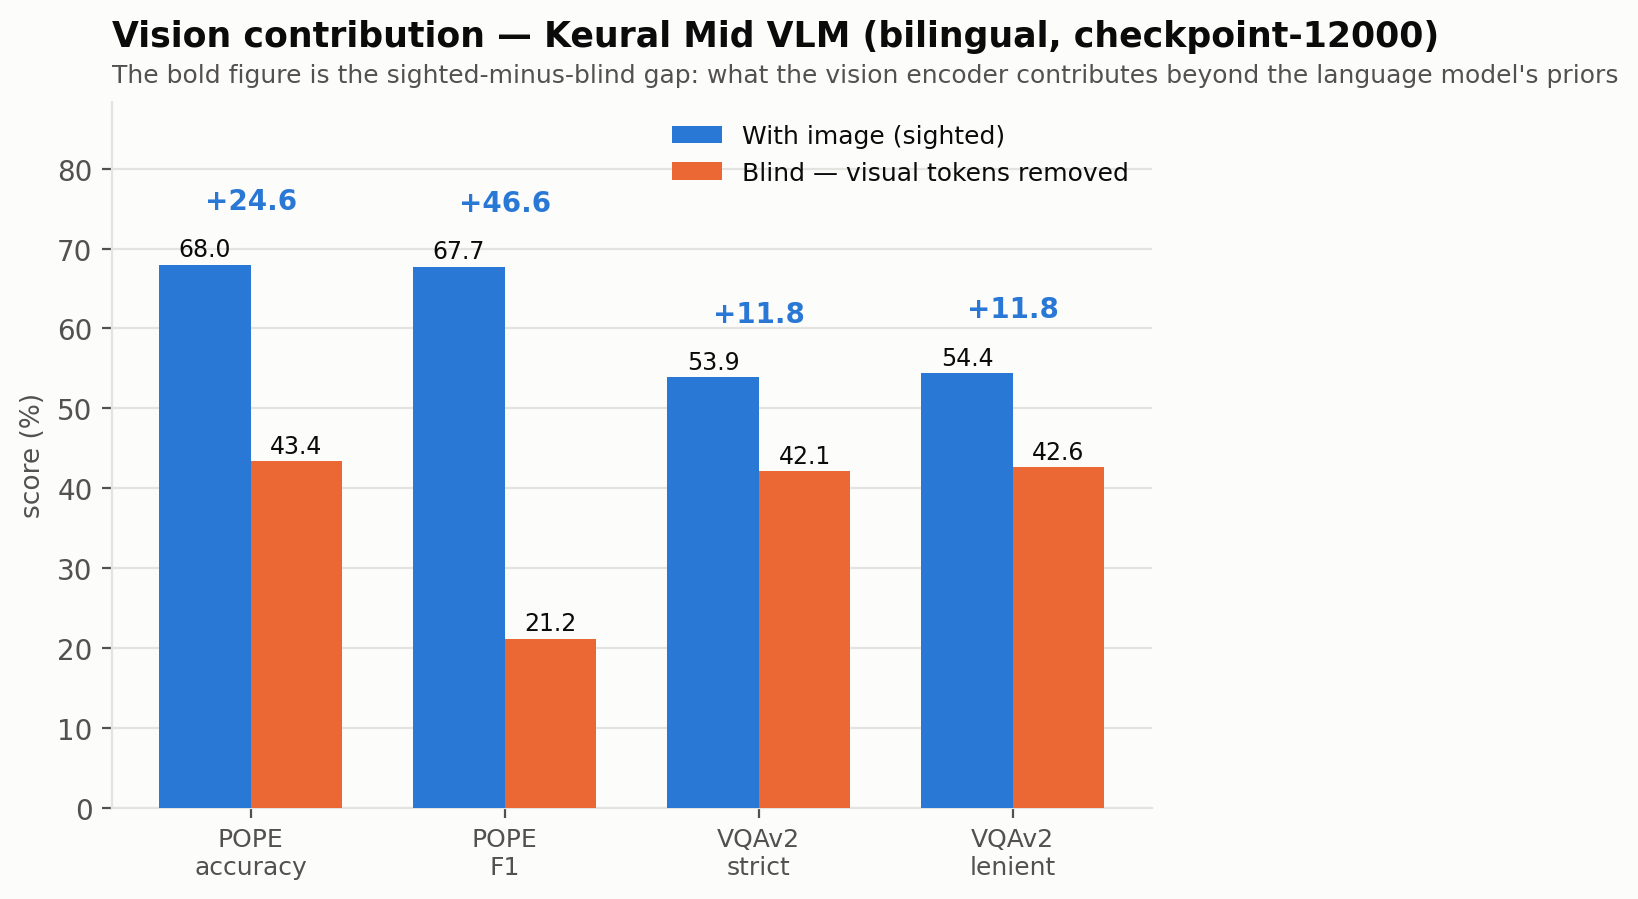
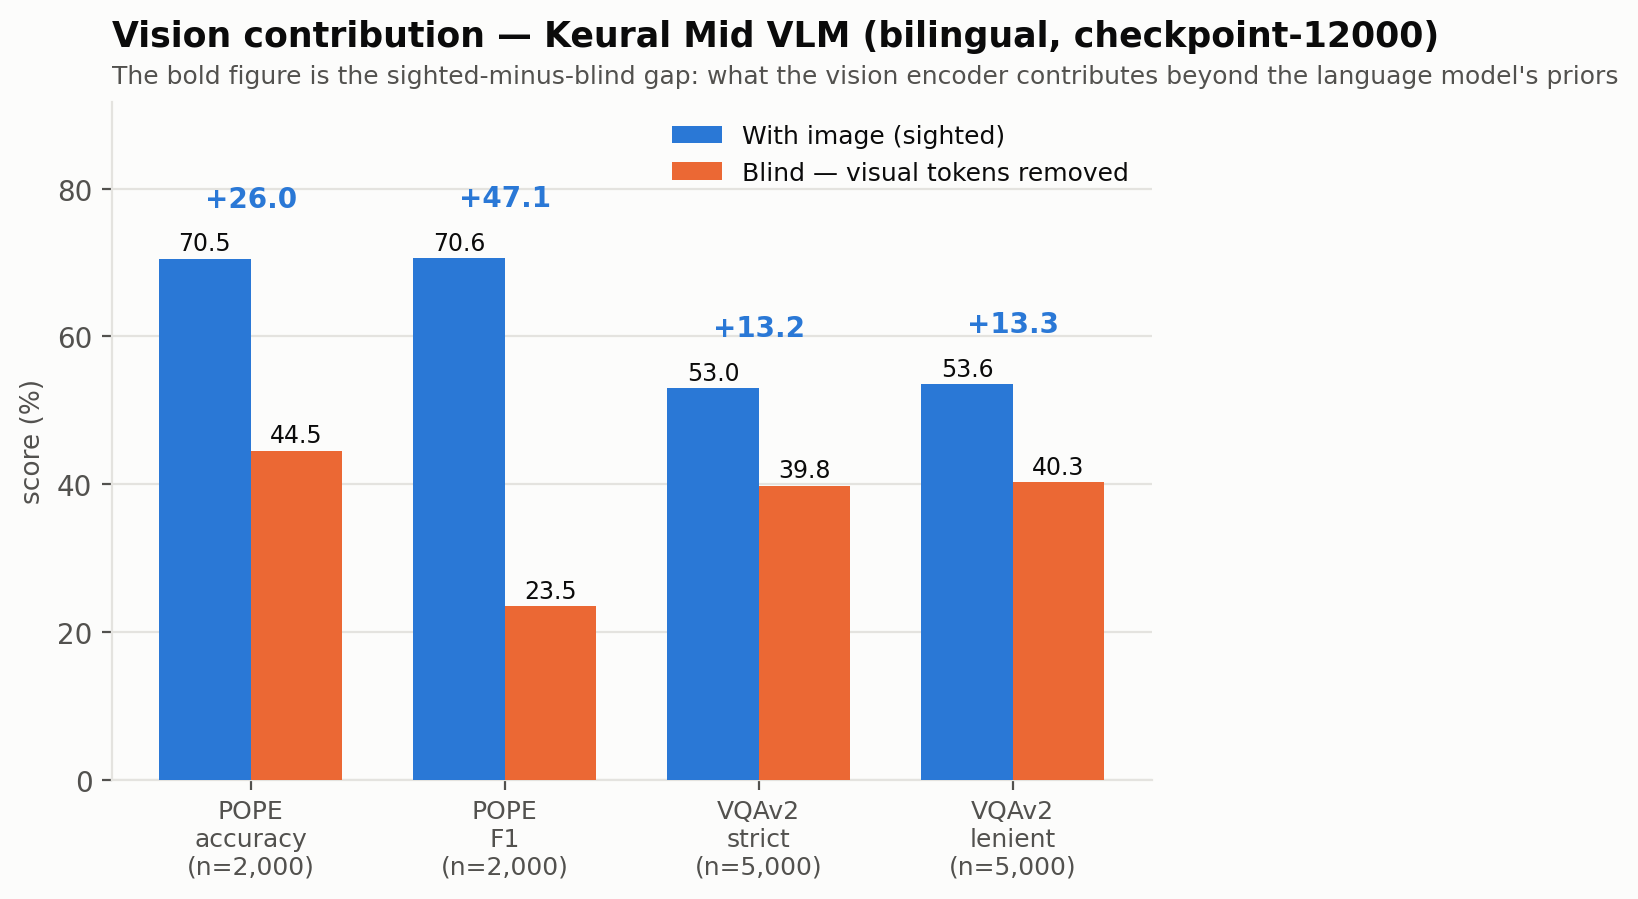
Point Stage 2 figures at the largest matched samples
The report tables were updated to n=2,000 POPE and n=5,000 VQAv2 while the
figure still plotted the n=500/n=1,000 runs, so the chart said +24.60 where the
table said +25.95. The figure now prefers the largest matched sighted/blind pair
available and falls back to the earlier runs only if absent, and the embedded
copies inside the .docx were refreshed from the regenerated PNGs.

diff --git a/scripts/make_stage2_result_figures.py b/scripts/make_stage2_result_figures.py
@@ -54,20 +54,25 @@ def load(*rel):
 # ---------------------------------------------------------------------------
 # 1. Vision contribution — sighted vs blind
 # ---------------------------------------------------------------------------
-pope_s = load("outputs/eval_2b/pope_trained_outputs_projector_2b_bilingual_checkpoint-12000.json")
-pope_b = load("outputs/queue/pope_blind.json")
-vqa_s = load("outputs/eval_2b/vqav2_sighted.json")
-vqa_b = load("outputs/eval_2b/vqav2_blind.json")
+# Prefer the largest matched sighted/blind pair available so the figure agrees
+# with the report tables; fall back to the smaller early runs if absent.
+pope_s = load("outputs/queue/pope_n2000.json",
+              "outputs/eval_2b/pope_trained_outputs_projector_2b_bilingual_checkpoint-12000.json")
+pope_b = load("outputs/queue/pope_n2000_blind.json", "outputs/queue/pope_blind.json")
+vqa_s = load("outputs/queue/vqav2_n5000.json", "outputs/eval_2b/vqav2_sighted.json")
+vqa_b = load("outputs/queue/vqav2_n5000_blind.json", "outputs/eval_2b/vqav2_blind.json")
+mme_s = load("outputs/queue/mme_full.json")
+mme_b = load("outputs/queue/mme_full_blind.json")
 
 rows = []
 if pope_s and pope_b:
-    rows.append(("POPE\naccuracy", pope_s["accuracy"] * 100, pope_b["accuracy"] * 100))
+    rows.append(("POPE\naccuracy\n(n=2,000)", pope_s["accuracy"] * 100, pope_b["accuracy"] * 100))
 if pope_s and pope_b:
-    rows.append(("POPE\nF1", pope_s["f1"] * 100, pope_b["f1"] * 100))
+    rows.append(("POPE\nF1\n(n=2,000)", pope_s["f1"] * 100, pope_b["f1"] * 100))
 if vqa_s and vqa_b:
-    rows.append(("VQAv2\nstrict", vqa_s["accuracy"] * 100, vqa_b["accuracy"] * 100))
+    rows.append(("VQAv2\nstrict\n(n=5,000)", vqa_s["accuracy"] * 100, vqa_b["accuracy"] * 100))
     if "lenient_accuracy" in vqa_s:
-        rows.append(("VQAv2\nlenient", vqa_s["lenient_accuracy"] * 100,
+        rows.append(("VQAv2\nlenient\n(n=5,000)", vqa_s["lenient_accuracy"] * 100,
                      vqa_b["lenient_accuracy"] * 100))
 
 if rows:
@@ -95,6 +100,13 @@ if rows:
     ax.set_ylim(0, max(max(s_vals), max(b_vals)) * 1.30)
     ax.set_axisbelow(True)
     ax.grid(axis="x", alpha=0)
+    if mme_s and mme_b:
+        # MME is a 0-2000 point scale, not a percentage; normalise to its own
+        # maximum so it can share an axis without implying a false comparison.
+        ts = sum(v["score"] for v in mme_s["categories"].values())
+        tb = sum(v["score"] for v in mme_b["categories"].values())
+        print(f"   MME total        sighted {ts:6.1f}  blind {tb:6.1f}  gap {ts-tb:+6.1f} "
+              "(reported in the table, not plotted - different scale)")
     ax.set_title("Vision contribution — Keural Mid VLM (bilingual, checkpoint-12000)",
                  fontsize=12.5, fontweight="bold", color=INK, loc="left", pad=20)
     ax.text(0, 1.02, "The bold figure is the sighted-minus-blind gap: what the vision "
